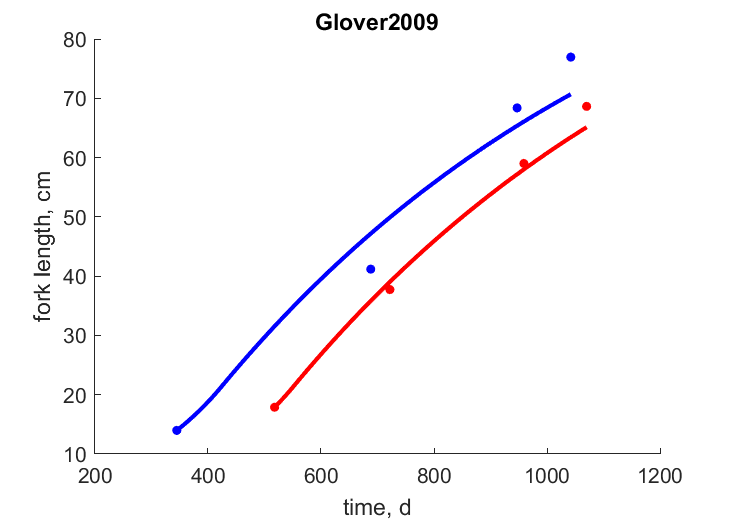
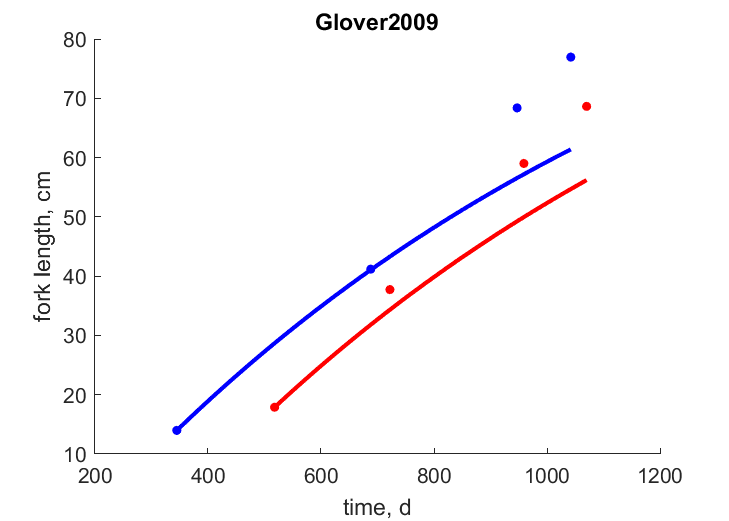
last changes. no convergence after 500+runs

diff --git a/Salmo_salar_wild_res.html b/Salmo_salar_wild_res.html
@@ -44,7 +44,7 @@
   </div>
 
   <div class="par">
-  <h4>COMPLETE = 2.5; MRE =    0.413; SMSE =    0.284 </h4>
+  <h4>COMPLETE = 2.5; MRE =    0.297; SMSE =    0.227 </h4>
   </div>
 
   <p class="clear"></p>
@@ -53,80 +53,80 @@
   <h2>Data & predictions</h2>
   <TABLE id="prd">
     <TR  class="head"><TH>data</TH> <TH>prd</TH> <TH>RE</TH>  <TH>symbol</TH> <TH>units</TH> <TH>description</TH> </TR>
-    <TR><TD>1355</TD> <TD>1191</TD> <TD>0.1212</TD> <TD>tp_nor</TD> <TD>d</TD> <TD>time since birth at puberty</TD></TR>
-    <TR><TD>694</TD> <TD>1191</TD> <TD>0.7159</TD> <TD>tp_norI</TD> <TD>d</TD> <TD>time since birth at puberty</TD></TR>
-    <TR><TD>3444</TD> <TD>3444</TD> <TD>7.174e-07</TD> <TD>am</TD> <TD>d</TD> <TD>life span</TD></TR>
-    <TR><TD>2.09</TD> <TD>2.215</TD> <TD>0.0598</TD> <TD>Lh_Can2</TD> <TD>cm</TD> <TD>fork length at hatching</TD></TR>
-    <TR><TD>2.09</TD> <TD>2.215</TD> <TD>0.0598</TD> <TD>Lh_Can4</TD> <TD>cm</TD> <TD>fork length at hatching</TD></TR>
-    <TR><TD>1.9</TD> <TD>2.215</TD> <TD>0.1658</TD> <TD>Lh_Can6</TD> <TD>cm</TD> <TD>fork length at hatching</TD></TR>
-    <TR><TD>1.92</TD> <TD>2.215</TD> <TD>0.1536</TD> <TD>Lh_Can8</TD> <TD>cm</TD> <TD>fork length at hatching</TD></TR>
-    <TR><TD>1.79</TD> <TD>2.215</TD> <TD>0.2374</TD> <TD>Lh_Can10</TD> <TD>cm</TD> <TD>fork length at hatching</TD></TR>
-    <TR><TD>1.66</TD> <TD>2.215</TD> <TD>0.3343</TD> <TD>Lh_Can12</TD> <TD>cm</TD> <TD>fork length at hatching</TD></TR>
-    <TR><TD>1.93</TD> <TD>2.215</TD> <TD>0.1477</TD> <TD>Lh_CanM4</TD> <TD>cm</TD> <TD>fork length at hatching</TD></TR>
-    <TR><TD>1.87</TD> <TD>2.215</TD> <TD>0.1845</TD> <TD>Lh_CanM6</TD> <TD>cm</TD> <TD>fork length at hatching</TD></TR>
-    <TR><TD>1.84</TD> <TD>2.215</TD> <TD>0.2038</TD> <TD>Lh_CanM8</TD> <TD>cm</TD> <TD>fork length at hatching</TD></TR>
-    <TR><TD>1.73</TD> <TD>2.215</TD> <TD>0.2803</TD> <TD>Lh_CanM10</TD> <TD>cm</TD> <TD>fork length at hatching</TD></TR>
-    <TR><TD>1.62</TD> <TD>2.215</TD> <TD>0.3673</TD> <TD>Lh_CanM12</TD> <TD>cm</TD> <TD>fork length at hatching</TD></TR>
-    <TR><TD>1.8</TD> <TD>2.215</TD> <TD>0.2305</TD> <TD>Lh_CanP</TD> <TD>cm</TD> <TD>fork length at hatching</TD></TR>
-    <TR><TD>1.83</TD> <TD>2.348</TD> <TD>0.283</TD> <TD>Lh_Rus</TD> <TD>cm</TD> <TD>total length at hatching ?</TD></TR>
-    <TR><TD>1.74</TD> <TD>2.215</TD> <TD>0.273</TD> <TD>Lh_scocanmix</TD> <TD>cm</TD> <TD>fork length at hatching</TD></TR>
-    <TR><TD>2.88</TD> <TD>2.297</TD> <TD>0.2024</TD> <TD>Lb_NorF2011</TD> <TD>cm</TD> <TD>fork length at birth</TD></TR>
-    <TR><TD>2.83</TD> <TD>2.297</TD> <TD>0.1883</TD> <TD>Lb_NorF2012</TD> <TD>cm</TD> <TD>fork length at birth</TD></TR>
-    <TR><TD>2.78</TD> <TD>2.297</TD> <TD>0.1737</TD> <TD>Lb_NorF2013</TD> <TD>cm</TD> <TD>fork length at birth</TD></TR>
-    <TR><TD>2.83</TD> <TD>2.297</TD> <TD>0.1883</TD> <TD>Lb_NorV2013</TD> <TD>cm</TD> <TD>fork length at birth</TD></TR>
-    <TR><TD> 78</TD> <TD>81.38</TD> <TD>0.04331</TD> <TD>Lsp_norS</TD> <TD>cm</TD> <TD>total length at 1st spawning?</TD></TR>
-    <TR><TD>67.5</TD> <TD>76.08</TD> <TD>0.1272</TD> <TD>Lsp_norI</TD> <TD>cm</TD> <TD>fork length at 1st spawning</TD></TR>
-    <TR><TD>52.7</TD> <TD>62.04</TD> <TD>0.1772</TD> <TD>Lsp_norSf</TD> <TD>cm</TD> <TD>postorbital-hypural length at 1st spawning</TD></TR>
-    <TR><TD>47.7</TD> <TD>62.04</TD> <TD>0.3006</TD> <TD>Lsp_norSm</TD> <TD>cm</TD> <TD>postorbital-hypural length at 1st spawning</TD></TR>
-    <TR><TD> 86</TD> <TD>95.56</TD> <TD>0.1112</TD> <TD>Li_NorFM</TD> <TD>cm</TD> <TD>ultimate fork length</TD></TR>
-    <TR><TD> 80</TD> <TD>95.56</TD> <TD>0.1945</TD> <TD>Li_NorFF</TD> <TD>cm</TD> <TD>ultimate fork length</TD></TR>
-    <TR><TD>109</TD> <TD>101.3</TD> <TD>0.07069</TD> <TD>Li_NorVM</TD> <TD>cm</TD> <TD>ultimate fork length</TD></TR>
-    <TR><TD> 89</TD> <TD>95.56</TD> <TD>0.07372</TD> <TD>Li_NorVF</TD> <TD>cm</TD> <TD>ultimate fork length</TD></TR>
-    <TR><TD> 96</TD> <TD>95.56</TD> <TD>0.004569</TD> <TD>Li_NorAM</TD> <TD>cm</TD> <TD>ultimate fork length</TD></TR>
-    <TR><TD> 96</TD> <TD>95.56</TD> <TD>0.004569</TD> <TD>Li_NorAF</TD> <TD>cm</TD> <TD>ultimate fork length</TD></TR>
-    <TR><TD>82.7</TD> <TD>95.56</TD> <TD>0.1555</TD> <TD>Li_norI</TD> <TD>cm</TD> <TD>ultimate fork length</TD></TR>
-    <TR><TD>0.09</TD> <TD>0.1569</TD> <TD>0.7434</TD> <TD>V0_nor</TD> <TD>cm^3</TD> <TD>egg volume</TD></TR>
-    <TR><TD>0.104</TD> <TD>0.1569</TD> <TD>0.5087</TD> <TD>V0_norF2011</TD> <TD>cm^3</TD> <TD>egg volume</TD></TR>
-    <TR><TD>0.129</TD> <TD>0.1569</TD> <TD>0.2163</TD> <TD>V0_norF2012</TD> <TD>cm^3</TD> <TD>egg volume</TD></TR>
-    <TR><TD>0.078</TD> <TD>0.1569</TD> <TD>1.012</TD> <TD>V0_fnor</TD> <TD>cm^3</TD> <TD>egg volume</TD></TR>
-    <TR><TD>0.139</TD> <TD>0.1166</TD> <TD>0.1613</TD> <TD>Wwh_FNor</TD> <TD>g</TD> <TD>wet weight at hatching</TD></TR>
-    <TR><TD>0.16</TD> <TD>0.13</TD> <TD>0.1874</TD> <TD>Wwb_Sco1SWM</TD> <TD>g</TD> <TD>wet weight at birth</TD></TR>
-    <TR><TD>0.195</TD> <TD>0.13</TD> <TD>0.3332</TD> <TD>Wwb_Sco2SWM</TD> <TD>g</TD> <TD>wet weight at birth</TD></TR>
-    <TR><TD>0.123</TD> <TD>0.13</TD> <TD>0.05706</TD> <TD>Wwb_Can</TD> <TD>g</TD> <TD>wet weight at birth</TD></TR>
-    <TR><TD>0.195</TD> <TD>0.13</TD> <TD>0.3332</TD> <TD>Wwb_Rus</TD> <TD>g</TD> <TD>wet weight at birth</TD></TR>
-    <TR><TD>2856</TD> <TD>4725</TD> <TD>0.6543</TD> <TD>Wwsp_norf</TD> <TD>g</TD> <TD>wet weight at first spawning</TD></TR>
-    <TR><TD>1920</TD> <TD>4725</TD> <TD>1.461</TD> <TD>Wwsp_norm</TD> <TD>g</TD> <TD>wet weight at first spawning</TD></TR>
-    <TR><TD>5200</TD> <TD>9362</TD> <TD>0.8004</TD> <TD>Wwi</TD> <TD>g</TD> <TD>ultimate wet weight</TD></TR>
-    <TR><TD>5380</TD> <TD>9362</TD> <TD>0.7401</TD> <TD>Wwi_NorFM</TD> <TD>g</TD> <TD>ultimate wet weight</TD></TR>
-    <TR><TD>4980</TD> <TD>9362</TD> <TD>0.8799</TD> <TD>Wwi_NorFF</TD> <TD>g</TD> <TD>ultimate wet weight</TD></TR>
-    <TR><TD>1.27e+04</TD> <TD>9362</TD> <TD>0.2628</TD> <TD>Wwi_NorVM</TD> <TD>g</TD> <TD>ultimate wet weight</TD></TR>
-    <TR><TD>6800</TD> <TD>9362</TD> <TD>0.3768</TD> <TD>Wwi_NorVF</TD> <TD>g</TD> <TD>ultimate wet weight</TD></TR>
-    <TR><TD>8300</TD> <TD>9362</TD> <TD>0.128</TD> <TD>Wwi_NorAM</TD> <TD>g</TD> <TD>ultimate wet weight</TD></TR>
-    <TR><TD>9100</TD> <TD>9362</TD> <TD>0.02879</TD> <TD>Wwi_NorAF</TD> <TD>g</TD> <TD>ultimate wet weight</TD></TR>
-    <TR><TD>1.635e+04</TD> <TD>9362</TD> <TD>0.4274</TD> <TD>Wwi_FNor</TD> <TD>g</TD> <TD>ultimate wet weight</TD></TR>
-    <TR><TD>757</TD> <TD>722.1</TD> <TD>0.04605</TD> <TD>E0_Nor</TD> <TD>J</TD> <TD>egg reserve energy</TD></TR>
-    <TR><TD>26.22</TD> <TD>26.11</TD> <TD>0.003981</TD> <TD>Ri_nor</TD> <TD>#/d</TD> <TD>maximum reprod rate</TD></TR>
-    <TR><TD colspan="2">see figure</TD> <TD>0.3863</TD> <TD>Tah_Dennis_Peterson1977</TD> <TD colspan="2">temperature, <font color="blue"><i>vs.</i></font> age at hatching</TD>
-    <TR><TD colspan="2">see figure</TD> <TD>0.7142</TD> <TD>Tah_Mirachimi_Peterson1977</TD> <TD colspan="2">temperature, <font color="blue"><i>vs.</i></font> age at hatching</TD>
-    <TR><TD colspan="2">see figure</TD> <TD>0.2336</TD> <TD>Tah_Wallace1988</TD> <TD colspan="2">temperature, <font color="blue"><i>vs.</i></font> age at hatching</TD>
-    <TR><TD colspan="2">see figure</TD> <TD>0.2927</TD> <TD>Tah_norF</TD> <TD colspan="2">temperature, <font color="blue"><i>vs.</i></font> age at hatching</TD>
-    <TR><TD colspan="2">see figure</TD> <TD>0.3525</TD> <TD>Tah_norV</TD> <TD colspan="2">temperature, <font color="blue"><i>vs.</i></font> age at hatching</TD>
-    <TR><TD colspan="2">see figure</TD> <TD>0.3525</TD> <TD>Tah_norA</TD> <TD colspan="2">temperature, <font color="blue"><i>vs.</i></font> age at hatching</TD>
-    <TR><TD colspan="2">see figure</TD> <TD>0.6327</TD> <TD>Tah_Berg1999</TD> <TD colspan="2">temperature, <font color="blue"><i>vs.</i></font> age at hatching</TD>
-    <TR><TD colspan="2">see figure</TD> <TD>0.4126</TD> <TD>Tah_Johnston1997</TD> <TD colspan="2">temperature, <font color="blue"><i>vs.</i></font> age at hatching</TD>
-    <TR><TD colspan="2">see figure</TD> <TD>0.2891</TD> <TD>TabC</TD> <TD colspan="2">temperature, <font color="blue"><i>vs.</i></font> age at birth</TD>
-    <TR><TD colspan="2">see figure</TD> <TD>0.1842</TD> <TD>tL_norI</TD> <TD colspan="2">time since birth, <font color="blue"><i>vs.</i></font> total length</TD>
-    <TR><TD colspan="2">see figure</TD> <TD>1.381</TD> <TD>tL_nor4</TD> <TD colspan="2">time since birth, <font color="blue"><i>vs.</i></font> total length</TD>
-    <TR><TD colspan="2">see figure</TD> <TD>1.377</TD> <TD>tL_nor5</TD> <TD colspan="2">time since birth, <font color="blue"><i>vs.</i></font> total length</TD>
-    <TR><TD colspan="2">see figure</TD> <TD>1.388</TD> <TD>tL_nor7</TD> <TD colspan="2">time since birth, <font color="blue"><i>vs.</i></font> total length</TD>
-    <TR><TD colspan="2">see figure</TD> <TD>1.242</TD> <TD>tL_nor57</TD> <TD colspan="2">time since birth, <font color="blue"><i>vs.</i></font> total length</TD>
-    <TR><TD colspan="2">see figure</TD> <TD>4.133</TD> <TD>tL_scoAa</TD> <TD colspan="2">time since birth, <font color="blue"><i>vs.</i></font> total length</TD>
-    <TR><TD colspan="2">see figure</TD> <TD>0.1982</TD> <TD>LWw_nor</TD> <TD colspan="2">total length, <font color="blue"><i>vs.</i></font> wet weight</TD>
-    <TR><TD colspan="2">see figure</TD> <TD>0.1489</TD> <TD>LWw_Nor</TD> <TD colspan="2">total length, <font color="blue"><i>vs.</i></font> wet weight</TD>
-    <TR class="psd"><TD>0.02</TD> <TD>0.01692</TD> <TD>0.1541</TD> <TD>psd.v</TD> <TD>cm/d</TD> <TD>energy conductance</TD></TR>
-    <TR class="psd"><TD>0.8</TD> <TD>0.9129</TD> <TD>0.1412</TD> <TD>psd.kap</TD> <TD>-</TD> <TD>allocation fraction to soma</TD></TR>
+    <TR><TD>1355</TD> <TD>1132</TD> <TD>0.1643</TD> <TD>tp_nor</TD> <TD>d</TD> <TD>time since birth at puberty</TD></TR>
+    <TR><TD>694</TD> <TD>1132</TD> <TD>0.6318</TD> <TD>tp_norI</TD> <TD>d</TD> <TD>time since birth at puberty</TD></TR>
+    <TR><TD>3444</TD> <TD>3444</TD> <TD>1.628e-05</TD> <TD>am</TD> <TD>d</TD> <TD>life span</TD></TR>
+    <TR><TD>2.09</TD> <TD>2.202</TD> <TD>0.05354</TD> <TD>Lh_Can2</TD> <TD>cm</TD> <TD>fork length at hatching</TD></TR>
+    <TR><TD>2.09</TD> <TD>2.202</TD> <TD>0.05354</TD> <TD>Lh_Can4</TD> <TD>cm</TD> <TD>fork length at hatching</TD></TR>
+    <TR><TD>1.9</TD> <TD>2.202</TD> <TD>0.1589</TD> <TD>Lh_Can6</TD> <TD>cm</TD> <TD>fork length at hatching</TD></TR>
+    <TR><TD>1.92</TD> <TD>2.202</TD> <TD>0.1468</TD> <TD>Lh_Can8</TD> <TD>cm</TD> <TD>fork length at hatching</TD></TR>
+    <TR><TD>1.79</TD> <TD>2.202</TD> <TD>0.2301</TD> <TD>Lh_Can10</TD> <TD>cm</TD> <TD>fork length at hatching</TD></TR>
+    <TR><TD>1.66</TD> <TD>2.202</TD> <TD>0.3264</TD> <TD>Lh_Can12</TD> <TD>cm</TD> <TD>fork length at hatching</TD></TR>
+    <TR><TD>1.93</TD> <TD>2.202</TD> <TD>0.1409</TD> <TD>Lh_CanM4</TD> <TD>cm</TD> <TD>fork length at hatching</TD></TR>
+    <TR><TD>1.87</TD> <TD>2.202</TD> <TD>0.1775</TD> <TD>Lh_CanM6</TD> <TD>cm</TD> <TD>fork length at hatching</TD></TR>
+    <TR><TD>1.84</TD> <TD>2.202</TD> <TD>0.1967</TD> <TD>Lh_CanM8</TD> <TD>cm</TD> <TD>fork length at hatching</TD></TR>
+    <TR><TD>1.73</TD> <TD>2.202</TD> <TD>0.2728</TD> <TD>Lh_CanM10</TD> <TD>cm</TD> <TD>fork length at hatching</TD></TR>
+    <TR><TD>1.62</TD> <TD>2.202</TD> <TD>0.3592</TD> <TD>Lh_CanM12</TD> <TD>cm</TD> <TD>fork length at hatching</TD></TR>
+    <TR><TD>1.8</TD> <TD>2.202</TD> <TD>0.2233</TD> <TD>Lh_CanP</TD> <TD>cm</TD> <TD>fork length at hatching</TD></TR>
+    <TR><TD>1.83</TD> <TD>2.334</TD> <TD>0.2754</TD> <TD>Lh_Rus</TD> <TD>cm</TD> <TD>total length at hatching ?</TD></TR>
+    <TR><TD>1.74</TD> <TD>2.202</TD> <TD>0.2655</TD> <TD>Lh_scocanmix</TD> <TD>cm</TD> <TD>fork length at hatching</TD></TR>
+    <TR><TD>2.88</TD> <TD>2.318</TD> <TD>0.1953</TD> <TD>Lb_NorF2011</TD> <TD>cm</TD> <TD>fork length at birth</TD></TR>
+    <TR><TD>2.83</TD> <TD>2.318</TD> <TD>0.1811</TD> <TD>Lb_NorF2012</TD> <TD>cm</TD> <TD>fork length at birth</TD></TR>
+    <TR><TD>2.78</TD> <TD>2.318</TD> <TD>0.1664</TD> <TD>Lb_NorF2013</TD> <TD>cm</TD> <TD>fork length at birth</TD></TR>
+    <TR><TD>2.83</TD> <TD>2.318</TD> <TD>0.1811</TD> <TD>Lb_NorV2013</TD> <TD>cm</TD> <TD>fork length at birth</TD></TR>
+    <TR><TD> 78</TD> <TD>62.84</TD> <TD>0.1943</TD> <TD>Lsp_norS</TD> <TD>cm</TD> <TD>total length at 1st spawning?</TD></TR>
+    <TR><TD>67.5</TD> <TD>58.59</TD> <TD>0.132</TD> <TD>Lsp_norI</TD> <TD>cm</TD> <TD>fork length at 1st spawning</TD></TR>
+    <TR><TD>52.7</TD> <TD>47.78</TD> <TD>0.09345</TD> <TD>Lsp_norSf</TD> <TD>cm</TD> <TD>postorbital-hypural length at 1st spawning</TD></TR>
+    <TR><TD>47.7</TD> <TD>47.78</TD> <TD>0.001578</TD> <TD>Lsp_norSm</TD> <TD>cm</TD> <TD>postorbital-hypural length at 1st spawning</TD></TR>
+    <TR><TD> 86</TD> <TD>94.36</TD> <TD>0.09726</TD> <TD>Li_NorFM</TD> <TD>cm</TD> <TD>ultimate fork length</TD></TR>
+    <TR><TD> 80</TD> <TD>94.36</TD> <TD>0.1795</TD> <TD>Li_NorFF</TD> <TD>cm</TD> <TD>ultimate fork length</TD></TR>
+    <TR><TD>109</TD> <TD>100</TD> <TD>0.08233</TD> <TD>Li_NorVM</TD> <TD>cm</TD> <TD>ultimate fork length</TD></TR>
+    <TR><TD> 89</TD> <TD>94.36</TD> <TD>0.06027</TD> <TD>Li_NorVF</TD> <TD>cm</TD> <TD>ultimate fork length</TD></TR>
+    <TR><TD> 96</TD> <TD>94.36</TD> <TD>0.01704</TD> <TD>Li_NorAM</TD> <TD>cm</TD> <TD>ultimate fork length</TD></TR>
+    <TR><TD> 96</TD> <TD>94.36</TD> <TD>0.01704</TD> <TD>Li_NorAF</TD> <TD>cm</TD> <TD>ultimate fork length</TD></TR>
+    <TR><TD>82.7</TD> <TD>94.36</TD> <TD>0.141</TD> <TD>Li_norI</TD> <TD>cm</TD> <TD>ultimate fork length</TD></TR>
+    <TR><TD>0.09</TD> <TD>0.1625</TD> <TD>0.8056</TD> <TD>V0_nor</TD> <TD>cm^3</TD> <TD>egg volume</TD></TR>
+    <TR><TD>0.104</TD> <TD>0.1625</TD> <TD>0.5625</TD> <TD>V0_norF2011</TD> <TD>cm^3</TD> <TD>egg volume</TD></TR>
+    <TR><TD>0.129</TD> <TD>0.1625</TD> <TD>0.2597</TD> <TD>V0_norF2012</TD> <TD>cm^3</TD> <TD>egg volume</TD></TR>
+    <TR><TD>0.078</TD> <TD>0.1625</TD> <TD>1.083</TD> <TD>V0_fnor</TD> <TD>cm^3</TD> <TD>egg volume</TD></TR>
+    <TR><TD>0.139</TD> <TD>0.1127</TD> <TD>0.1893</TD> <TD>Wwh_FNor</TD> <TD>g</TD> <TD>wet weight at hatching</TD></TR>
+    <TR><TD>0.16</TD> <TD>0.1314</TD> <TD>0.1788</TD> <TD>Wwb_Sco1SWM</TD> <TD>g</TD> <TD>wet weight at birth</TD></TR>
+    <TR><TD>0.195</TD> <TD>0.1314</TD> <TD>0.3262</TD> <TD>Wwb_Sco2SWM</TD> <TD>g</TD> <TD>wet weight at birth</TD></TR>
+    <TR><TD>0.123</TD> <TD>0.1314</TD> <TD>0.06816</TD> <TD>Wwb_Can</TD> <TD>g</TD> <TD>wet weight at birth</TD></TR>
+    <TR><TD>0.195</TD> <TD>0.1314</TD> <TD>0.3262</TD> <TD>Wwb_Rus</TD> <TD>g</TD> <TD>wet weight at birth</TD></TR>
+    <TR><TD>2856</TD> <TD>2123</TD> <TD>0.2566</TD> <TD>Wwsp_norf</TD> <TD>g</TD> <TD>wet weight at first spawning</TD></TR>
+    <TR><TD>1920</TD> <TD>2123</TD> <TD>0.1058</TD> <TD>Wwsp_norm</TD> <TD>g</TD> <TD>wet weight at first spawning</TD></TR>
+    <TR><TD>5200</TD> <TD>8869</TD> <TD>0.7056</TD> <TD>Wwi</TD> <TD>g</TD> <TD>ultimate wet weight</TD></TR>
+    <TR><TD>5380</TD> <TD>8869</TD> <TD>0.6485</TD> <TD>Wwi_NorFM</TD> <TD>g</TD> <TD>ultimate wet weight</TD></TR>
+    <TR><TD>4980</TD> <TD>8869</TD> <TD>0.7809</TD> <TD>Wwi_NorFF</TD> <TD>g</TD> <TD>ultimate wet weight</TD></TR>
+    <TR><TD>1.27e+04</TD> <TD>8869</TD> <TD>0.3016</TD> <TD>Wwi_NorVM</TD> <TD>g</TD> <TD>ultimate wet weight</TD></TR>
+    <TR><TD>6800</TD> <TD>8869</TD> <TD>0.3043</TD> <TD>Wwi_NorVF</TD> <TD>g</TD> <TD>ultimate wet weight</TD></TR>
+    <TR><TD>8300</TD> <TD>8869</TD> <TD>0.06856</TD> <TD>Wwi_NorAM</TD> <TD>g</TD> <TD>ultimate wet weight</TD></TR>
+    <TR><TD>9100</TD> <TD>8869</TD> <TD>0.02538</TD> <TD>Wwi_NorAF</TD> <TD>g</TD> <TD>ultimate wet weight</TD></TR>
+    <TR><TD>1.635e+04</TD> <TD>8869</TD> <TD>0.4575</TD> <TD>Wwi_FNor</TD> <TD>g</TD> <TD>ultimate wet weight</TD></TR>
+    <TR><TD>757</TD> <TD>747.9</TD> <TD>0.01201</TD> <TD>E0_Nor</TD> <TD>J</TD> <TD>egg reserve energy</TD></TR>
+    <TR><TD>26.22</TD> <TD>25.68</TD> <TD>0.0204</TD> <TD>Ri_nor</TD> <TD>#/d</TD> <TD>maximum reprod rate</TD></TR>
+    <TR><TD colspan="2">see figure</TD> <TD>0.4426</TD> <TD>Tah_Dennis_Peterson1977</TD> <TD colspan="2">temperature, <font color="blue"><i>vs.</i></font> age at hatching</TD>
+    <TR><TD colspan="2">see figure</TD> <TD>0.7837</TD> <TD>Tah_Mirachimi_Peterson1977</TD> <TD colspan="2">temperature, <font color="blue"><i>vs.</i></font> age at hatching</TD>
+    <TR><TD colspan="2">see figure</TD> <TD>0.2025</TD> <TD>Tah_Wallace1988</TD> <TD colspan="2">temperature, <font color="blue"><i>vs.</i></font> age at hatching</TD>
+    <TR><TD colspan="2">see figure</TD> <TD>0.3451</TD> <TD>Tah_norF</TD> <TD colspan="2">temperature, <font color="blue"><i>vs.</i></font> age at hatching</TD>
+    <TR><TD colspan="2">see figure</TD> <TD>0.4074</TD> <TD>Tah_norV</TD> <TD colspan="2">temperature, <font color="blue"><i>vs.</i></font> age at hatching</TD>
+    <TR><TD colspan="2">see figure</TD> <TD>0.4074</TD> <TD>Tah_norA</TD> <TD colspan="2">temperature, <font color="blue"><i>vs.</i></font> age at hatching</TD>
+    <TR><TD colspan="2">see figure</TD> <TD>0.699</TD> <TD>Tah_Berg1999</TD> <TD colspan="2">temperature, <font color="blue"><i>vs.</i></font> age at hatching</TD>
+    <TR><TD colspan="2">see figure</TD> <TD>0.4699</TD> <TD>Tah_Johnston1997</TD> <TD colspan="2">temperature, <font color="blue"><i>vs.</i></font> age at hatching</TD>
+    <TR><TD colspan="2">see figure</TD> <TD>0.2543</TD> <TD>TabC</TD> <TD colspan="2">temperature, <font color="blue"><i>vs.</i></font> age at birth</TD>
+    <TR><TD colspan="2">see figure</TD> <TD>0.2235</TD> <TD>tL_norI</TD> <TD colspan="2">time since birth, <font color="blue"><i>vs.</i></font> total length</TD>
+    <TR><TD colspan="2">see figure</TD> <TD>0.9195</TD> <TD>tL_nor4</TD> <TD colspan="2">time since birth, <font color="blue"><i>vs.</i></font> total length</TD>
+    <TR><TD colspan="2">see figure</TD> <TD>0.8876</TD> <TD>tL_nor5</TD> <TD colspan="2">time since birth, <font color="blue"><i>vs.</i></font> total length</TD>
+    <TR><TD colspan="2">see figure</TD> <TD>0.8803</TD> <TD>tL_nor7</TD> <TD colspan="2">time since birth, <font color="blue"><i>vs.</i></font> total length</TD>
+    <TR><TD colspan="2">see figure</TD> <TD>7.117</TD> <TD>tL_nor57</TD> <TD colspan="2">time since birth, <font color="blue"><i>vs.</i></font> total length</TD>
+    <TR><TD colspan="2">see figure</TD> <TD>26.69</TD> <TD>tL_scoAa</TD> <TD colspan="2">time since birth, <font color="blue"><i>vs.</i></font> total length</TD>
+    <TR><TD colspan="2">see figure</TD> <TD>0.1789</TD> <TD>LWw_nor</TD> <TD colspan="2">total length, <font color="blue"><i>vs.</i></font> wet weight</TD>
+    <TR><TD colspan="2">see figure</TD> <TD>0.1611</TD> <TD>LWw_Nor</TD> <TD colspan="2">total length, <font color="blue"><i>vs.</i></font> wet weight</TD>
+    <TR class="psd"><TD>0.02</TD> <TD>0.02253</TD> <TD>0.1263</TD> <TD>psd.v</TD> <TD>cm/d</TD> <TD>energy conductance</TD></TR>
+    <TR class="psd"><TD>0.8</TD> <TD>0.8349</TD> <TD>0.0436</TD> <TD>psd.kap</TD> <TD>-</TD> <TD>allocation fraction to soma</TD></TR>
     <TR class="psd"><TD>0.95</TD> <TD>0.95</TD> <TD>  0</TD> <TD>psd.kap_R</TD> <TD>-</TD> <TD>reproduction efficiency</TD></TR>
-    <TR class="psd"><TD> 18</TD> <TD>302.2</TD> <TD>15.79</TD> <TD>psd.p_M</TD> <TD>J/d.cm^3</TD> <TD>vol-spec som maint</TD></TR>
+    <TR class="psd"><TD> 18</TD> <TD>69.37</TD> <TD>2.854</TD> <TD>psd.p_M</TD> <TD>J/d.cm^3</TD> <TD>vol-spec som maint</TD></TR>
     <TR class="psd"><TD>0.002</TD> <TD>0.002</TD> <TD>  0</TD> <TD>psd.k_J</TD> <TD>1/d</TD> <TD>maturity maint rate coefficient</TD></TR>
     <TR class="psd"><TD>0.8</TD> <TD>0.8327</TD> <TD>0.04082</TD> <TD>psd.kap_G</TD> <TD>-</TD> <TD>growth efficiency</TD></TR>
   </TABLE>
@@ -138,34 +138,34 @@
     <TR class="head"><TH>symbol</TH> <TH>units</TH> <TH>value</TH>  <TH>free</TH> <TH>description</TH> </TR>
     <TR><TD>T_ref</TD> <TD>K</TD> <TD>293.1</TD> <TD>0</TD> <TD>Reference temperature</TD></TR>
     <TR><TD>T_A</TD> <TD>K</TD> <TD>5190</TD> <TD>0</TD> <TD>Arrhenius temperature</TD></TR>
-    <TR><TD>z</TD> <TD>-</TD> <TD>1.761</TD> <TD>1</TD> <TD>zoom factor</TD></TR>
+    <TR><TD>z</TD> <TD>-</TD> <TD>2.969</TD> <TD>1</TD> <TD>zoom factor</TD></TR>
     <TR><TD>F_m</TD> <TD>l/d.cm^2</TD> <TD>6.5</TD> <TD>0</TD> <TD>{F_m}, max spec searching rate</TD></TR>
     <TR><TD>kap_X</TD> <TD>-</TD> <TD>0.8</TD> <TD>0</TD> <TD>digestion efficiency of food to reserve</TD></TR>
     <TR><TD>kap_P</TD> <TD>-</TD> <TD>0.1</TD> <TD>0</TD> <TD>faecation efficiency of food to faeces</TD></TR>
-    <TR><TD>v</TD> <TD>cm/d</TD> <TD>0.01692</TD> <TD>1</TD> <TD>energy conductance</TD></TR>
-    <TR><TD>kap</TD> <TD>-</TD> <TD>0.9129</TD> <TD>1</TD> <TD>allocation fraction to soma</TD></TR>
+    <TR><TD>v</TD> <TD>cm/d</TD> <TD>0.02253</TD> <TD>1</TD> <TD>energy conductance</TD></TR>
+    <TR><TD>kap</TD> <TD>-</TD> <TD>0.8349</TD> <TD>1</TD> <TD>allocation fraction to soma</TD></TR>
     <TR><TD>kap_R</TD> <TD>-</TD> <TD>0.95</TD> <TD>0</TD> <TD>reproduction efficiency</TD></TR>
-    <TR><TD>p_M</TD> <TD>J/d.cm^3</TD> <TD>302.2</TD> <TD>1</TD> <TD>[p_M], vol-spec somatic maint</TD></TR>
+    <TR><TD>p_M</TD> <TD>J/d.cm^3</TD> <TD>69.37</TD> <TD>1</TD> <TD>[p_M], vol-spec somatic maint</TD></TR>
     <TR><TD>p_T</TD> <TD>J/d.cm^2</TD> <TD>  0</TD> <TD>0</TD> <TD>{p_T}, surf-spec somatic maint</TD></TR>
     <TR><TD>k_J</TD> <TD>1/d</TD> <TD>0.002</TD> <TD>0</TD> <TD>maturity maint rate coefficient</TD></TR>
     <TR><TD>E_G</TD> <TD>J/cm^3</TD> <TD>5025</TD> <TD>0</TD> <TD>[E_G], spec cost for structure</TD></TR>
-    <TR><TD>E_Hb</TD> <TD>J</TD> <TD>18.62</TD> <TD>1</TD> <TD>maturity at birth</TD></TR>
-    <TR><TD>E_Hj</TD> <TD>J</TD> <TD>6338</TD> <TD>1</TD> <TD>maturity at metam</TD></TR>
-    <TR><TD>E_Hp</TD> <TD>J</TD> <TD>1.825e+06</TD> <TD>1</TD> <TD>maturity at puberty</TD></TR>
-    <TR><TD>h_a</TD> <TD>1/d^2</TD> <TD>8.769e-30</TD> <TD>1</TD> <TD>Weibull aging acceleration</TD></TR>
+    <TR><TD>E_Hb</TD> <TD>J</TD> <TD>59.09</TD> <TD>1</TD> <TD>maturity at birth</TD></TR>
+    <TR><TD>E_Hj</TD> <TD>J</TD> <TD>8357</TD> <TD>1</TD> <TD>maturity at metam</TD></TR>
+    <TR><TD>E_Hp</TD> <TD>J</TD> <TD>8.406e+05</TD> <TD>1</TD> <TD>maturity at puberty</TD></TR>
+    <TR><TD>h_a</TD> <TD>1/d^2</TD> <TD>1.929e-24</TD> <TD>1</TD> <TD>Weibull aging acceleration</TD></TR>
     <TR><TD>s_G</TD> <TD>-</TD> <TD> 10</TD> <TD>0</TD> <TD>Gompertz stress coefficient</TD></TR>
-    <TR><TD>E_Hh</TD> <TD>J</TD> <TD>16.19</TD> <TD>1</TD> <TD>maturity at hatching</TD></TR>
+    <TR><TD>E_Hh</TD> <TD>J</TD> <TD>49.73</TD> <TD>1</TD> <TD>maturity at hatching</TD></TR>
     <TR><TD>L0_nor</TD> <TD>cm</TD> <TD>4.8</TD> <TD>0</TD> <TD>initial length in Rowe1990</TD></TR>
     <TR><TD>L0_scoAa</TD> <TD>cm</TD> <TD>6.5</TD> <TD>0</TD> <TD>initial length in Rowe1990</TD></TR>
     <TR><TD>t0_scoAa</TD> <TD>cm</TD> <TD>270</TD> <TD>0</TD> <TD>initial time since birth in Rowe1990</TD></TR>
-    <TR><TD>f_scoAa</TD> <TD>-</TD> <TD>0.8</TD> <TD>1</TD> <TD>scaled functional response in Rowe1990 - 1% of fish biomass</TD></TR>
+    <TR><TD>f_scoAa</TD> <TD>-</TD> <TD>0.5</TD> <TD>0</TD> <TD>scaled functional response in Rowe1990 - 1% of fish biomass</TD></TR>
     <TR><TD>L0_scoS</TD> <TD>cm</TD> <TD>3.75</TD> <TD>0</TD> <TD>initial length in Nicieza1994 scotland data</TD></TR>
     <TR><TD>L0_spa</TD> <TD>cm</TD> <TD>3.77</TD> <TD>0</TD> <TD>initial length in Nicieza1994</TD></TR>
     <TR><TD>L0_usa</TD> <TD>cm</TD> <TD>19.7</TD> <TD>0</TD> <TD>initial length in Rottiers1993</TD></TR>
     <TR><TD>POHtoTOT</TD> <TD>-</TD> <TD>1.3</TD> <TD>0</TD> <TD>conversion from postorbital-hypural length to total length</TD></TR>
     <TR><TD>SNFtoTOT</TD> <TD>-</TD> <TD>1.06</TD> <TD>0</TD> <TD>conversion from fork length to total length</TD></TR>
     <TR><TD>W0_McCarthy2003</TD> <TD>g</TD> <TD>0.28</TD> <TD>0</TD> <TD>Initial Wet weight in McCarthy2003</TD></TR>
-    <TR><TD>del_M</TD> <TD>-</TD> <TD>0.113</TD> <TD>1</TD> <TD>shape coefficient</TD></TR>
+    <TR><TD>del_M</TD> <TD>-</TD> <TD>0.1493</TD> <TD>1</TD> <TD>shape coefficient</TD></TR>
     <TR><TD>f</TD> <TD>-</TD> <TD>  1</TD> <TD>0</TD> <TD>scaled functional response for 0-var data</TD></TR>
     <TR><TD>f_LWw</TD> <TD>-</TD> <TD>  1</TD> <TD>0</TD> <TD>scaled functional response for 1-var data</TD></TR>
     <TR><TD>f_nat</TD> <TD>-</TD> <TD>0.7</TD> <TD>0</TD> <TD>scaled functional response for 0-var data, when reared in natural condition (not ad lib)</TD></TR>

diff --git a/Salmo_salar_farm_res.html b/Salmo_salar_farm_res.html
@@ -44,7 +44,7 @@
   </div>
 
   <div class="par">
-  <h4>COMPLETE = 2.5; MRE =    0.370; SMSE =    0.340 </h4>
+  <h4>COMPLETE = 2.5; MRE =    0.291; SMSE =    0.309 </h4>
   </div>
 
   <p class="clear"></p>
@@ -53,54 +53,54 @@
   <h2>Data & predictions</h2>
   <TABLE id="prd">
     <TR  class="head"><TH>data</TH> <TH>prd</TH> <TH>RE</TH>  <TH>symbol</TH> <TH>units</TH> <TH>description</TH> </TR>
-    <TR><TD>183</TD> <TD>130.1</TD> <TD>0.2891</TD> <TD>ab_norM</TD> <TD>d</TD> <TD>age at first feeding</TD></TR>
-    <TR><TD>183</TD> <TD>146.1</TD> <TD>0.2017</TD> <TD>ab_norM2</TD> <TD>d</TD> <TD>age at first feeding</TD></TR>
-    <TR><TD>58.33</TD> <TD>26.13</TD> <TD>0.5521</TD> <TD>tb_12_AqG</TD> <TD>d</TD> <TD>time between hatching and first feeding</TD></TR>
-    <TR><TD>21.54</TD> <TD>24.46</TD> <TD>0.1356</TD> <TD>tb_norB</TD> <TD>d</TD> <TD>time between hatching and first feeding</TD></TR>
-    <TR><TD>390.8</TD> <TD>1530</TD> <TD>2.914</TD> <TD>ap_norNBP</TD> <TD>d</TD> <TD>age at puberty</TD></TR>
-    <TR><TD>1070</TD> <TD>1530</TD> <TD>0.4295</TD> <TD>ap_norire</TD> <TD>d</TD> <TD>age at puberty</TD></TR>
-    <TR><TD>1461</TD> <TD>1458</TD> <TD>0.002251</TD> <TD>am</TD> <TD>d</TD> <TD>life span</TD></TR>
-    <TR><TD>2.89</TD> <TD>2.069</TD> <TD>0.284</TD> <TD>Lb_NorM2011</TD> <TD>cm</TD> <TD>total length at birth</TD></TR>
-    <TR><TD>2.81</TD> <TD>2.069</TD> <TD>0.2636</TD> <TD>Lb_NorM2012</TD> <TD>cm</TD> <TD>total length at birth</TD></TR>
-    <TR><TD>2.84</TD> <TD>2.069</TD> <TD>0.2714</TD> <TD>Lb_NorM2013</TD> <TD>cm</TD> <TD>total length at birth</TD></TR>
-    <TR><TD>2.83</TD> <TD>2.069</TD> <TD>0.2688</TD> <TD>Lb_NorS2013</TD> <TD>cm</TD> <TD>total length at birth</TD></TR>
-    <TR><TD>55.4</TD> <TD>52.22</TD> <TD>0.05738</TD> <TD>Lp_norSf</TD> <TD>cm</TD> <TD>postorbital-hypural length at first spawning</TD></TR>
-    <TR><TD>57.5</TD> <TD>52.22</TD> <TD>0.09181</TD> <TD>Lp_norSm</TD> <TD>cm</TD> <TD>postorbital-hypural length at first spawning</TD></TR>
-    <TR><TD>111</TD> <TD>112.4</TD> <TD>0.01241</TD> <TD>Li</TD> <TD>cm</TD> <TD>maximum length</TD></TR>
-    <TR><TD>0.1114</TD> <TD>0.1314</TD> <TD>0.1792</TD> <TD>V0_norM2011</TD> <TD>cm^3</TD> <TD>egg volume</TD></TR>
-    <TR><TD>0.1212</TD> <TD>0.1314</TD> <TD>0.08394</TD> <TD>V0_norM2012</TD> <TD>cm^3</TD> <TD>egg volume</TD></TR>
-    <TR><TD>0.1194</TD> <TD>0.1314</TD> <TD>0.09999</TD> <TD>V0_norM2013</TD> <TD>cm^3</TD> <TD>egg volume</TD></TR>
-    <TR><TD>3696</TD> <TD>3309</TD> <TD>0.1046</TD> <TD>Wwp_norf</TD> <TD>g</TD> <TD>wet weight at 1st spawning</TD></TR>
-    <TR><TD>4008</TD> <TD>3309</TD> <TD>0.1743</TD> <TD>Wwp_norm</TD> <TD>g</TD> <TD>wet weight at 1st spawning</TD></TR>
-    <TR><TD>1.4e+04</TD> <TD>1.506e+04</TD> <TD>0.07583</TD> <TD>Wwi_norM</TD> <TD>g</TD> <TD>maximum wet weight</TD></TR>
-    <TR><TD colspan="2">see figure</TD> <TD>0.4879</TD> <TD>Tah_Gunnes1979</TD> <TD colspan="2">temperature, <font color="blue"><i>vs.</i></font> age at hatching</TD>
-    <TR><TD colspan="2">see figure</TD> <TD>0.401</TD> <TD>Tah_Wallace1988</TD> <TD colspan="2">temperature, <font color="blue"><i>vs.</i></font> age at hatching</TD>
-    <TR><TD colspan="2">see figure</TD> <TD>0.07631</TD> <TD>Tah_Solberg2014</TD> <TD colspan="2">temperature, <font color="blue"><i>vs.</i></font> age at hatching</TD>
-    <TR><TD colspan="2">see figure</TD> <TD>0.2793</TD> <TD>Tah_Berg1999</TD> <TD colspan="2">temperature, <font color="blue"><i>vs.</i></font> age at hatching</TD>
-    <TR><TD colspan="2">see figure</TD> <TD>0.4381</TD> <TD>tL_iceT11</TD> <TD colspan="2">time, <font color="blue"><i>vs.</i></font> fork length</TD>
-    <TR><TD colspan="2">see figure</TD> <TD>0.2434</TD> <TD>tL_iceT611</TD> <TD colspan="2">time, <font color="blue"><i>vs.</i></font> fork length</TD>
-    <TR><TD colspan="2">see figure</TD> <TD>0.03179</TD> <TD>tL_norM2003</TD> <TD colspan="2">time, <font color="blue"><i>vs.</i></font> fork length</TD>
-    <TR><TD colspan="2">see figure</TD> <TD>0.0763</TD> <TD>tL_norM2004</TD> <TD colspan="2">time, <font color="blue"><i>vs.</i></font> fork length</TD>
-    <TR><TD colspan="2">see figure</TD> <TD>0.4251</TD> <TD>tWwVe_T12</TD> <TD colspan="2">time since fertilization, <font color="blue"><i>vs.</i></font> wet weight excluding yolk</TD>
-    <TR><TD colspan="2">see figure</TD> <TD>0.6132</TD> <TD>tWwVe_T10</TD> <TD colspan="2">time since fertilization, <font color="blue"><i>vs.</i></font> wet weight excluding yolk</TD>
-    <TR><TD colspan="2">see figure</TD> <TD>0.6963</TD> <TD>tWwVe_T8</TD> <TD colspan="2">time since fertilization, <font color="blue"><i>vs.</i></font> wet weight excluding yolk</TD>
-    <TR><TD colspan="2">see figure</TD> <TD>0.7074</TD> <TD>tWwYe_T12</TD> <TD colspan="2">time since fertilization, <font color="blue"><i>vs.</i></font> yolk wet weight</TD>
-    <TR><TD colspan="2">see figure</TD> <TD>0.6952</TD> <TD>tWwYe_T10</TD> <TD colspan="2">time since fertilization, <font color="blue"><i>vs.</i></font> yolk wet weight</TD>
-    <TR><TD colspan="2">see figure</TD> <TD>0.6876</TD> <TD>tWwYe_T8</TD> <TD colspan="2">time since fertilization, <font color="blue"><i>vs.</i></font> yolk wet weight</TD>
-    <TR><TD colspan="2">see figure</TD> <TD>1.991</TD> <TD>tWw_norB</TD> <TD colspan="2">time, <font color="blue"><i>vs.</i></font> wet weight</TD>
-    <TR><TD colspan="2">see figure</TD> <TD>0.5137</TD> <TD>tWw_T4_Mow</TD> <TD colspan="2">time since transfer to seawater, <font color="blue"><i>vs.</i></font> wet weight</TD>
-    <TR><TD colspan="2">see figure</TD> <TD>0.407</TD> <TD>tWw_T8_Mow</TD> <TD colspan="2">time since transfer to seawater, <font color="blue"><i>vs.</i></font> wet weight</TD>
-    <TR><TD colspan="2">see figure</TD> <TD>0.1137</TD> <TD>tWw_T6_AqG</TD> <TD colspan="2">time since transfer to seawater, <font color="blue"><i>vs.</i></font> wet weight</TD>
-    <TR><TD colspan="2">see figure</TD> <TD>0.1154</TD> <TD>tWw_T10_AqG</TD> <TD colspan="2">time since transfer to seawater, <font color="blue"><i>vs.</i></font> wet weight</TD>
-    <TR><TD colspan="2">see figure</TD> <TD>0.05478</TD> <TD>tWw_T14_AqG</TD> <TD colspan="2">time since transfer to seawater, <font color="blue"><i>vs.</i></font> wet weight</TD>
-    <TR><TD colspan="2">see figure</TD> <TD>2.402</TD> <TD>tWw_T18_AqG</TD> <TD colspan="2">time since transfer to seawater, <font color="blue"><i>vs.</i></font> wet weight</TD>
-    <TR><TD colspan="2">see figure</TD> <TD>0.1765</TD> <TD>LWw_AqG</TD> <TD colspan="2">fork length, <font color="blue"><i>vs.</i></font> wet weight</TD>
-    <TR><TD colspan="2">see figure</TD> <TD>0.09696</TD> <TD>LWw_norM</TD> <TD colspan="2">fork length, <font color="blue"><i>vs.</i></font> wet weight</TD>
-    <TR><TD>9.701</TD> <TD>9.731</TD> <TD>0.003082</TD> <TD>Ri</TD> <TD>-/d</TD> <TD>maximum number of eggs</TD></TR>
-    <TR class="psd"><TD>0.02</TD> <TD>0.02526</TD> <TD>0.2629</TD> <TD>psd.v</TD> <TD>cm/d</TD> <TD>energy conductance</TD></TR>
-    <TR class="psd"><TD>0.8</TD> <TD>0.97</TD> <TD>0.2125</TD> <TD>psd.kap</TD> <TD>-</TD> <TD>allocation fraction to soma</TD></TR>
+    <TR><TD>183</TD> <TD>123.6</TD> <TD>0.3244</TD> <TD>ab_norM</TD> <TD>d</TD> <TD>age at first feeding</TD></TR>
+    <TR><TD>183</TD> <TD>138.1</TD> <TD>0.2453</TD> <TD>ab_norM2</TD> <TD>d</TD> <TD>age at first feeding</TD></TR>
+    <TR><TD>58.33</TD> <TD>23.64</TD> <TD>0.5947</TD> <TD>tb_12_AqG</TD> <TD>d</TD> <TD>time between hatching and first feeding</TD></TR>
+    <TR><TD>21.54</TD> <TD>22.13</TD> <TD>0.02759</TD> <TD>tb_norB</TD> <TD>d</TD> <TD>time between hatching and first feeding</TD></TR>
+    <TR><TD>390.8</TD> <TD>903.9</TD> <TD>1.313</TD> <TD>ap_norNBP</TD> <TD>d</TD> <TD>age at puberty</TD></TR>
+    <TR><TD>1070</TD> <TD>903.9</TD> <TD>0.1554</TD> <TD>ap_norire</TD> <TD>d</TD> <TD>age at puberty</TD></TR>
+    <TR><TD>1461</TD> <TD>1461</TD> <TD>3.049e-08</TD> <TD>am</TD> <TD>d</TD> <TD>life span</TD></TR>
+    <TR><TD>2.89</TD> <TD>2.107</TD> <TD>0.2711</TD> <TD>Lb_NorM2011</TD> <TD>cm</TD> <TD>total length at birth</TD></TR>
+    <TR><TD>2.81</TD> <TD>2.107</TD> <TD>0.2503</TD> <TD>Lb_NorM2012</TD> <TD>cm</TD> <TD>total length at birth</TD></TR>
+    <TR><TD>2.84</TD> <TD>2.107</TD> <TD>0.2582</TD> <TD>Lb_NorM2013</TD> <TD>cm</TD> <TD>total length at birth</TD></TR>
+    <TR><TD>2.83</TD> <TD>2.107</TD> <TD>0.2556</TD> <TD>Lb_NorS2013</TD> <TD>cm</TD> <TD>total length at birth</TD></TR>
+    <TR><TD>55.4</TD> <TD>52.67</TD> <TD>0.04932</TD> <TD>Lsp_norSf</TD> <TD>cm</TD> <TD>postorbital-hypural length at first spawning</TD></TR>
+    <TR><TD>57.5</TD> <TD>52.67</TD> <TD>0.08404</TD> <TD>Lsp_norSm</TD> <TD>cm</TD> <TD>postorbital-hypural length at first spawning</TD></TR>
+    <TR><TD>111</TD> <TD>114.7</TD> <TD>0.03371</TD> <TD>Li</TD> <TD>cm</TD> <TD>maximum length</TD></TR>
+    <TR><TD>0.1114</TD> <TD>0.1307</TD> <TD>0.1728</TD> <TD>V0_norM2011</TD> <TD>cm^3</TD> <TD>egg volume</TD></TR>
+    <TR><TD>0.1212</TD> <TD>0.1307</TD> <TD>0.07808</TD> <TD>V0_norM2012</TD> <TD>cm^3</TD> <TD>egg volume</TD></TR>
+    <TR><TD>0.1194</TD> <TD>0.1307</TD> <TD>0.09404</TD> <TD>V0_norM2013</TD> <TD>cm^3</TD> <TD>egg volume</TD></TR>
+    <TR><TD>3696</TD> <TD>3446</TD> <TD>0.06771</TD> <TD>Wwsp_norf</TD> <TD>g</TD> <TD>wet weight at 1st spawning</TD></TR>
+    <TR><TD>4008</TD> <TD>3446</TD> <TD>0.1403</TD> <TD>Wwsp_norm</TD> <TD>g</TD> <TD>wet weight at 1st spawning</TD></TR>
+    <TR><TD>1.4e+04</TD> <TD>1.465e+04</TD> <TD>0.04669</TD> <TD>Wwi_norM</TD> <TD>g</TD> <TD>maximum wet weight</TD></TR>
+    <TR><TD colspan="2">see figure</TD> <TD>0.4309</TD> <TD>Tah_Gunnes1979</TD> <TD colspan="2">temperature, <font color="blue"><i>vs.</i></font> age at hatching</TD>
+    <TR><TD colspan="2">see figure</TD> <TD>0.4239</TD> <TD>Tah_Wallace1988</TD> <TD colspan="2">temperature, <font color="blue"><i>vs.</i></font> age at hatching</TD>
+    <TR><TD colspan="2">see figure</TD> <TD>0.05819</TD> <TD>Tah_Solberg2014</TD> <TD colspan="2">temperature, <font color="blue"><i>vs.</i></font> age at hatching</TD>
+    <TR><TD colspan="2">see figure</TD> <TD>0.2303</TD> <TD>Tah_Berg1999</TD> <TD colspan="2">temperature, <font color="blue"><i>vs.</i></font> age at hatching</TD>
+    <TR><TD colspan="2">see figure</TD> <TD>0.3426</TD> <TD>tL_iceT11</TD> <TD colspan="2">time, <font color="blue"><i>vs.</i></font> fork length</TD>
+    <TR><TD colspan="2">see figure</TD> <TD>0.2606</TD> <TD>tL_iceT611</TD> <TD colspan="2">time, <font color="blue"><i>vs.</i></font> fork length</TD>
+    <TR><TD colspan="2">see figure</TD> <TD>0.1359</TD> <TD>tL_norM2003</TD> <TD colspan="2">time, <font color="blue"><i>vs.</i></font> fork length</TD>
+    <TR><TD colspan="2">see figure</TD> <TD>0.1374</TD> <TD>tL_norM2004</TD> <TD colspan="2">time, <font color="blue"><i>vs.</i></font> fork length</TD>
+    <TR><TD colspan="2">see figure</TD> <TD>0.3756</TD> <TD>tWwVe_T12</TD> <TD colspan="2">time since fertilization, <font color="blue"><i>vs.</i></font> wet weight excluding yolk</TD>
+    <TR><TD colspan="2">see figure</TD> <TD>0.5894</TD> <TD>tWwVe_T10</TD> <TD colspan="2">time since fertilization, <font color="blue"><i>vs.</i></font> wet weight excluding yolk</TD>
+    <TR><TD colspan="2">see figure</TD> <TD>0.6839</TD> <TD>tWwVe_T8</TD> <TD colspan="2">time since fertilization, <font color="blue"><i>vs.</i></font> wet weight excluding yolk</TD>
+    <TR><TD colspan="2">see figure</TD> <TD>0.7174</TD> <TD>tWwYe_T12</TD> <TD colspan="2">time since fertilization, <font color="blue"><i>vs.</i></font> yolk wet weight</TD>
+    <TR><TD colspan="2">see figure</TD> <TD>0.6898</TD> <TD>tWwYe_T10</TD> <TD colspan="2">time since fertilization, <font color="blue"><i>vs.</i></font> yolk wet weight</TD>
+    <TR><TD colspan="2">see figure</TD> <TD>0.6702</TD> <TD>tWwYe_T8</TD> <TD colspan="2">time since fertilization, <font color="blue"><i>vs.</i></font> yolk wet weight</TD>
+    <TR><TD colspan="2">see figure</TD> <TD>1.205</TD> <TD>tWw_norB</TD> <TD colspan="2">time, <font color="blue"><i>vs.</i></font> wet weight</TD>
+    <TR><TD colspan="2">see figure</TD> <TD>0.3966</TD> <TD>tWw_T4_Mow</TD> <TD colspan="2">time since transfer to seawater, <font color="blue"><i>vs.</i></font> wet weight</TD>
+    <TR><TD colspan="2">see figure</TD> <TD>0.2384</TD> <TD>tWw_T8_Mow</TD> <TD colspan="2">time since transfer to seawater, <font color="blue"><i>vs.</i></font> wet weight</TD>
+    <TR><TD colspan="2">see figure</TD> <TD>0.04142</TD> <TD>tWw_T6_AqG</TD> <TD colspan="2">time since transfer to seawater, <font color="blue"><i>vs.</i></font> wet weight</TD>
+    <TR><TD colspan="2">see figure</TD> <TD>0.2124</TD> <TD>tWw_T10_AqG</TD> <TD colspan="2">time since transfer to seawater, <font color="blue"><i>vs.</i></font> wet weight</TD>
+    <TR><TD colspan="2">see figure</TD> <TD>0.1784</TD> <TD>tWw_T14_AqG</TD> <TD colspan="2">time since transfer to seawater, <font color="blue"><i>vs.</i></font> wet weight</TD>
+    <TR><TD colspan="2">see figure</TD> <TD>0.6342</TD> <TD>tWw_T18_AqG</TD> <TD colspan="2">time since transfer to seawater, <font color="blue"><i>vs.</i></font> wet weight</TD>
+    <TR><TD colspan="2">see figure</TD> <TD>0.2239</TD> <TD>LWw_AqG</TD> <TD colspan="2">fork length, <font color="blue"><i>vs.</i></font> wet weight</TD>
+    <TR><TD colspan="2">see figure</TD> <TD>0.08709</TD> <TD>LWw_norM</TD> <TD colspan="2">fork length, <font color="blue"><i>vs.</i></font> wet weight</TD>
+    <TR><TD>9.701</TD> <TD>9.696</TD> <TD>0.0004942</TD> <TD>Ri</TD> <TD>-/d</TD> <TD>maximum number of eggs</TD></TR>
+    <TR class="psd"><TD>0.02</TD> <TD>0.01805</TD> <TD>0.09752</TD> <TD>psd.v</TD> <TD>cm/d</TD> <TD>energy conductance</TD></TR>
+    <TR class="psd"><TD>0.8</TD> <TD>0.9624</TD> <TD>0.203</TD> <TD>psd.kap</TD> <TD>-</TD> <TD>allocation fraction to soma</TD></TR>
     <TR class="psd"><TD>0.95</TD> <TD>0.95</TD> <TD>  0</TD> <TD>psd.kap_R</TD> <TD>-</TD> <TD>reproduction efficiency</TD></TR>
-    <TR class="psd"><TD> 18</TD> <TD>63.23</TD> <TD>2.513</TD> <TD>psd.p_M</TD> <TD>J/d.cm^3</TD> <TD>vol-spec som maint</TD></TR>
+    <TR class="psd"><TD> 18</TD> <TD>106.6</TD> <TD>4.92</TD> <TD>psd.p_M</TD> <TD>J/d.cm^3</TD> <TD>vol-spec som maint</TD></TR>
     <TR class="psd"><TD>0.002</TD> <TD>0.002</TD> <TD>  0</TD> <TD>psd.k_J</TD> <TD>1/d</TD> <TD>maturity maint rate coefficient</TD></TR>
     <TR class="psd"><TD>0.8</TD> <TD>0.8327</TD> <TD>0.04082</TD> <TD>psd.kap_G</TD> <TD>-</TD> <TD>growth efficiency</TD></TR>
   </TABLE>
@@ -112,24 +112,24 @@
     <TR class="head"><TH>symbol</TH> <TH>units</TH> <TH>value</TH>  <TH>free</TH> <TH>description</TH> </TR>
     <TR><TD>T_ref</TD> <TD>K</TD> <TD>293.1</TD> <TD>0</TD> <TD>Reference temperature</TD></TR>
     <TR><TD>T_A</TD> <TD>K</TD> <TD>5383</TD> <TD>0</TD> <TD>Arrhenius temperature</TD></TR>
-    <TR><TD>z</TD> <TD>-</TD> <TD>1.973</TD> <TD>1</TD> <TD>zoom factor</TD></TR>
+    <TR><TD>z</TD> <TD>-</TD> <TD>3.088</TD> <TD>1</TD> <TD>zoom factor</TD></TR>
     <TR><TD>F_m</TD> <TD>l/d.cm^2</TD> <TD>6.5</TD> <TD>0</TD> <TD>{F_m}, max spec searching rate</TD></TR>
     <TR><TD>kap_X</TD> <TD>-</TD> <TD>0.8</TD> <TD>0</TD> <TD>digestion efficiency of food to reserve</TD></TR>
     <TR><TD>kap_P</TD> <TD>-</TD> <TD>0.1</TD> <TD>0</TD> <TD>faecation efficiency of food to faeces</TD></TR>
-    <TR><TD>v</TD> <TD>cm/d</TD> <TD>0.02526</TD> <TD>1</TD> <TD>energy conductance</TD></TR>
-    <TR><TD>kap</TD> <TD>-</TD> <TD>0.97</TD> <TD>1</TD> <TD>allocation fraction to soma</TD></TR>
+    <TR><TD>v</TD> <TD>cm/d</TD> <TD>0.01805</TD> <TD>1</TD> <TD>energy conductance</TD></TR>
+    <TR><TD>kap</TD> <TD>-</TD> <TD>0.9624</TD> <TD>1</TD> <TD>allocation fraction to soma</TD></TR>
     <TR><TD>kap_R</TD> <TD>-</TD> <TD>0.95</TD> <TD>0</TD> <TD>reproduction efficiency</TD></TR>
-    <TR><TD>p_M</TD> <TD>J/d.cm^3</TD> <TD>63.23</TD> <TD>1</TD> <TD>[p_M], vol-spec somatic maint</TD></TR>
+    <TR><TD>p_M</TD> <TD>J/d.cm^3</TD> <TD>106.6</TD> <TD>1</TD> <TD>[p_M], vol-spec somatic maint</TD></TR>
     <TR><TD>p_T</TD> <TD>J/d.cm^2</TD> <TD>  0</TD> <TD>0</TD> <TD>{p_T}, surf-spec somatic maint</TD></TR>
     <TR><TD>k_J</TD> <TD>1/d</TD> <TD>0.002</TD> <TD>0</TD> <TD>maturity maint rate coefficient</TD></TR>
     <TR><TD>E_G</TD> <TD>J/cm^3</TD> <TD>5025</TD> <TD>0</TD> <TD>[E_G], spec cost for structure</TD></TR>
-    <TR><TD>E_Hb</TD> <TD>J</TD> <TD>9.718</TD> <TD>1</TD> <TD>maturity at birth</TD></TR>
-    <TR><TD>E_Hh</TD> <TD>J</TD> <TD>4.733</TD> <TD>1</TD> <TD>maturity at hatching</TD></TR>
-    <TR><TD>E_Hj</TD> <TD>J</TD> <TD>1.241e+04</TD> <TD>1</TD> <TD>maturity at metam</TD></TR>
-    <TR><TD>E_Hp</TD> <TD>J</TD> <TD>5.199e+05</TD> <TD>1</TD> <TD>maturity at puberty</TD></TR>
-    <TR><TD>h_a</TD> <TD>1/d^2</TD> <TD>1.094e-17</TD> <TD>1</TD> <TD>Weibull aging acceleration</TD></TR>
+    <TR><TD>E_Hb</TD> <TD>J</TD> <TD>5.806</TD> <TD>1</TD> <TD>maturity at birth</TD></TR>
+    <TR><TD>E_Hh</TD> <TD>J</TD> <TD>2.388</TD> <TD>1</TD> <TD>maturity at hatching</TD></TR>
+    <TR><TD>E_Hj</TD> <TD>J</TD> <TD>827.7</TD> <TD>1</TD> <TD>maturity at metam</TD></TR>
+    <TR><TD>E_Hp</TD> <TD>J</TD> <TD>1.43e+05</TD> <TD>1</TD> <TD>maturity at puberty</TD></TR>
+    <TR><TD>h_a</TD> <TD>1/d^2</TD> <TD>1.733e-10</TD> <TD>1</TD> <TD>Weibull aging acceleration</TD></TR>
     <TR><TD>s_G</TD> <TD>-</TD> <TD> 10</TD> <TD>0</TD> <TD>Gompertz stress coefficient</TD></TR>
-    <TR><TD>del_M</TD> <TD>-</TD> <TD>0.1712</TD> <TD>1</TD> <TD>shape coefficient</TD></TR>
+    <TR><TD>del_M</TD> <TD>-</TD> <TD>0.128</TD> <TD>1</TD> <TD>shape coefficient</TD></TR>
     <TR><TD>SNFtoTOT</TD> <TD>-</TD> <TD>1.06</TD> <TD>0</TD> <TD>conversion from fork length to total length</TD></TR>
     <TR><TD>POHtoTOT</TD> <TD>-</TD> <TD>1.3</TD> <TD>0</TD> <TD>conversion from postorbital-hypural length to total length</TD></TR>
     <TR><TD>f</TD> <TD>-</TD> <TD>  1</TD> <TD>0</TD> <TD>scaled functional response for 0-var data</TD></TR>

diff --git a/run_Salmo_Salar_again.m b/run_Salmo_Salar_again.m
@@ -6,8 +6,8 @@ close all
 %addpath(genpath('C:/Users/crecapet/Documents/Recherche/Modelisation/DEB/DEB school 2019/Salmo_salar/AmP_Salmo_salar/std model'))
 global pets
 
-% pets = {'Salmo_salar_farm'};
-pets = {'Salmo_salar_wild'};
+pets = {'Salmo_salar_farm'};
+% pets = {'Salmo_salar_wild'};
 % check_my_pet(pets); 
 
 % Read about how to set estimation and output options (estim_options) on the online
@@ -25,7 +25,7 @@ estim_options('results_output', 0);
 estim_options('method', 'nm');
 %estim_options('method', 'no');
 
-n=10; % number of repetition
+n=400; % number of repetition
 for i=1:n-1
 fprintf('N= ',i,'\n')
     estim_pars; 

diff --git a/run_Salmo_salar_farm.m b/run_Salmo_salar_farm.m
@@ -22,7 +22,7 @@ estim_options('pars_init_method', 1);% 1 = from from .mat file, 2 = from pars_in
 estim_options('loss_function', 'sb');
 estim_options('report', 1);
 estim_options('results_output', 3);% 0 = .mat only, 2 = .mat file and print to html, 3 = .mat file and print to html and png, 4 = .mat file and print to html incl. implied traits and png  
-% estim_options('method', 'nm');
-estim_options('method', 'no');
+estim_options('method', 'nm');
+% estim_options('method', 'no');
 
 estim_pars; 

diff --git a/run_Salmo_salar_wild.m b/run_Salmo_salar_wild.m
@@ -22,7 +22,7 @@ estim_options('pars_init_method', 2);% 1 = from from .mat file, 2 = from pars_in
 estim_options('loss_function', 'sb');
 estim_options('report', 1);
 estim_options('results_output', 3);% 0 = .mat only, 2 = .mat file and print to html, 3 = .mat file and print to html and png, 4 = .mat file and print to html incl. implied traits and png  
-% estim_options('method', 'nm');
-estim_options('method', 'no');
+estim_options('method', 'nm');
+% estim_options('method', 'no');
 
 estim_pars; 
